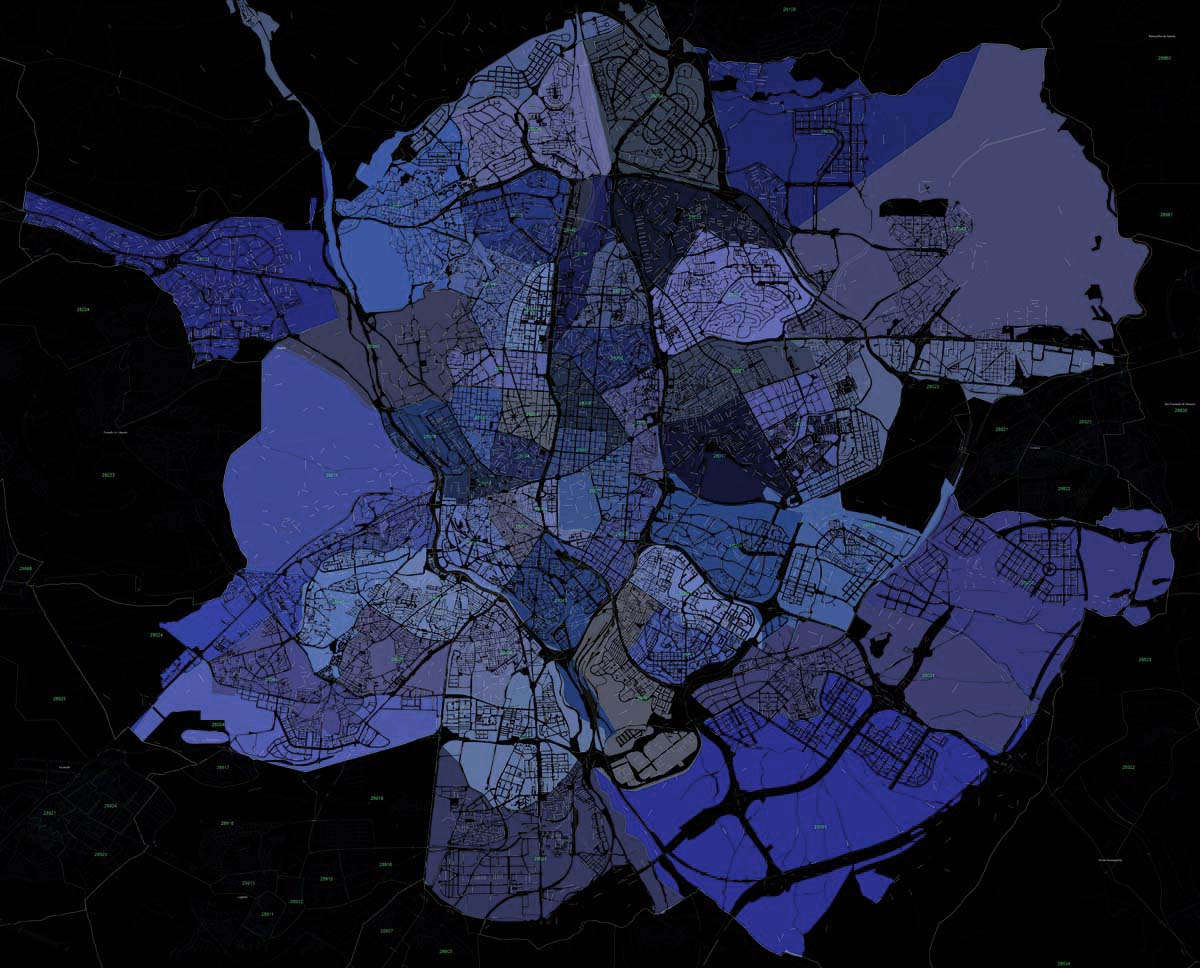
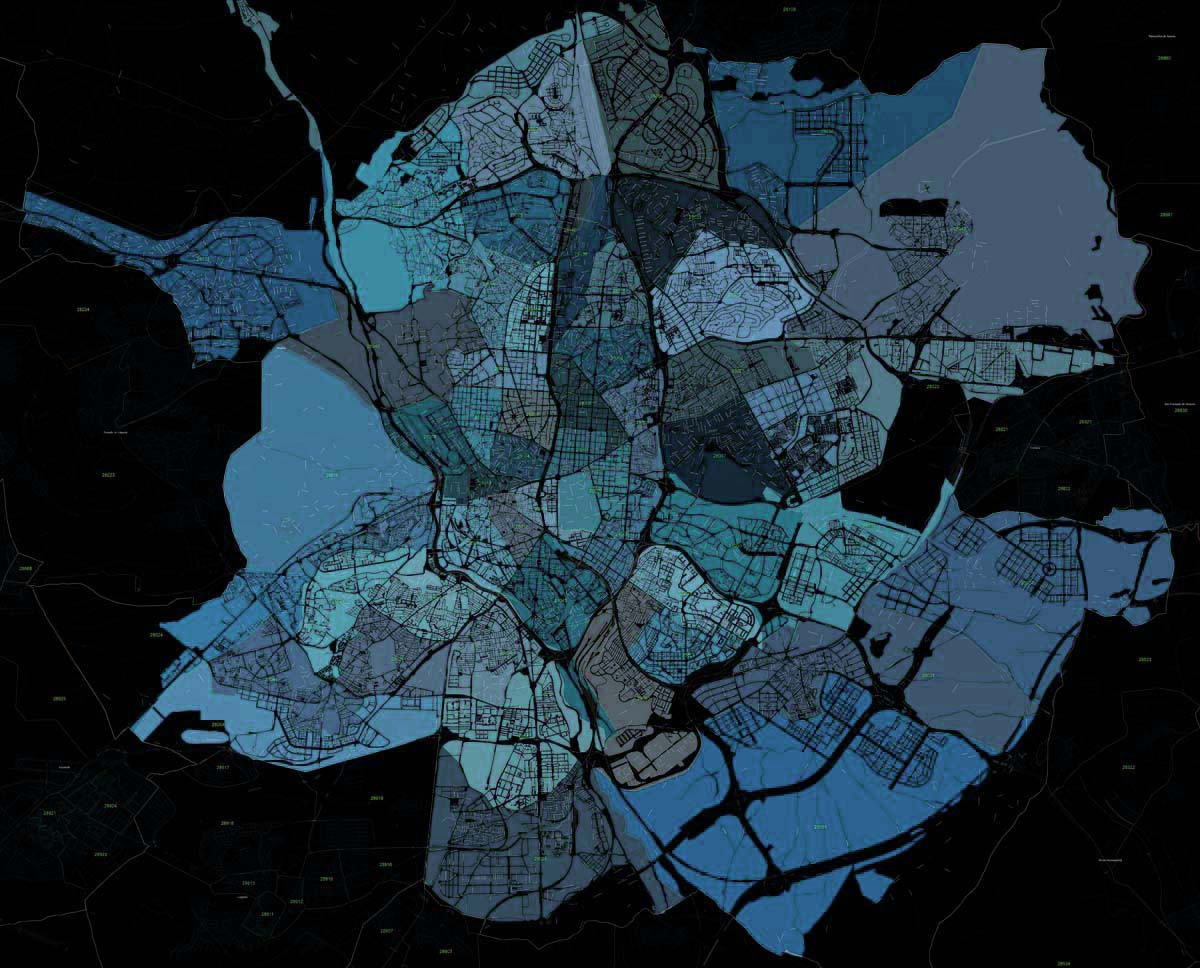
working on ui

Changed region(s): [[0.0, 0.0, 0.9867, 0.9917]]

diff --git a/client/src/components/GeneralStats.js b/client/src/components/GeneralStats.js
@@ -9,20 +9,20 @@ export default function GeneralStats(props) {
     console.log(props)
     if(props.element){
         return (
-            <div className="selection">
-                <p className="minititle">ZIPCODE</p>
+            <div className="selection full">
+                <p className="sectitle">ZIPCODE</p>
                 <h1>{props.element.Zone}</h1>
                 <hr></hr>
-                <p className="minititle">MERCHANTS</p>
+                <p className="sectitle">MERCHANTS</p>
                 <p className="content">{props.element.Merchants}</p>
-                <p className="minititle"># CARDS</p>
+                <p className="sectitle"># CARDS</p>
                 <p className="content">{props.element.Cards}</p>
-                <p className="minititle"># TRANSACTIONS</p>
+                <p className="sectitle"># TRANSACTIONS</p>
                 <p className="content">{props.element.Txs}</p>
-                <p className="minititle">PEAK / VALLEY DAYS</p>
+                <p className="sectitle">PEAK / VALLEY DAYS</p>
                 <p className="content">{props.element.Peakday} / {props.element.Valleyday}</p>
-                <p className="minititle">PEAK / VALLEY HOURS</p>
-                <p className="content">{props.element.Peakhour} / {props.element.Valleyhour}</p>
+                <p className="sectitle">PEAK / VALLEY HOURS</p>
+                <p className="content">{props.element.Peakhour}.00h / {props.element.Valleyhour}.00h</p>
                 <p></p>
             </div>
             )

diff --git a/client/src/components/HomeButtons.css b/client/src/components/HomeButtons.css
@@ -1,0 +1,58 @@
+.butcontainer{
+    position: absolute;
+    bottom: 80px;
+    left: 30vw;
+    border-top: 1px solid grey;
+}
+
+.btn6{
+    font-size: 12px;
+    padding: 15px 100px;
+    margin:10px 4px;
+    color: #fff;
+    font-family: sans-serif;
+    text-transform: uppercase;
+    text-align: center;
+    position: relative;
+    text-decoration: none;
+    display:inline-block;
+    border:1px solid transparent; 
+    -webkit-transition: all 0.4s cubic-bezier(.5, .24, 0, 1);
+    transition: all 0.4s cubic-bezier(.5, .24, 0, 1);
+ }
+
+ .btn6.active{
+    color: rgb(245, 46, 245);
+    border-bottom: 1px solid rgb(245, 46, 245);
+    font-weight: bolder;
+ }
+    
+
+ .btn6::before {
+    content: '';
+    position: absolute;
+    bottom: 0%;
+    left: 0px;
+    width: 100%;
+    height: 2px;
+    background: rgb(245, 46, 245);
+    display: block;
+    -webkit-transform-origin: right top;
+    -ms-transform-origin: right top;
+    transform-origin: right top;
+    -webkit-transform: scale(0, 1);
+    -ms-transform: scale(0, 1);
+    transform: scale(0, 1);
+    -webkit-transition: transform 0.4s cubic-bezier(1, 0, 0, 1);
+    transition: transform 0.4s cubic-bezier(1, 0, 0, 1)
+  }
+  
+  .btn6:hover::before {
+    -webkit-transform-origin: left top;
+    -ms-transform-origin: left top;
+    transform-origin: left top;
+    -webkit-transform: scale(1, 1);
+    -ms-transform: scale(1, 1);
+    transform: scale(1, 1)
+  }
+  

diff --git a/client/src/components/HomeScene.js b/client/src/components/HomeScene.js
@@ -3,6 +3,8 @@ import React, { Component } from 'react'
 import GeneralStats from './GeneralStats';
 
 import Service from '../services/generalservice'
+import SectionInfo from './SectionInfo';
+import HomeButtons from './HomeButtons';
 
 
 
@@ -97,7 +99,7 @@ class HomeScene extends Component{
 
     this.material = []
 
-    this.material2 = new window.THREE.MeshPhongMaterial({color:'#0000ff' ,transparent:true})
+    this.material2 = new window.THREE.MeshPhongMaterial({color:'#ff00ff' ,transparent:true})
     this.material2.opacity = 0.7
 
     this.group2 = new window.THREE.Group()
@@ -243,12 +245,14 @@ class HomeScene extends Component{
         }
         return(
         <div>
+          <SectionInfo title="Overview" description="Mouse over the 3D model showing the different city areas and display the main data for each one"/>
           <GeneralStats element={elementtoprint}/>
           <div className="canvas"
               style={{ margin: '0 auto' ,width: '100vw', height: '100vh' }}
               ref={(mount) => { this.mount = mount }}
               onMouseMove={this.onDocumentMouseMove}
           />
+          <HomeButtons/>
         </div>
         )
     }

diff --git a/client/src/components/HomeButtons.js b/client/src/components/HomeButtons.js
@@ -1,0 +1,28 @@
+import React, { Component } from 'react'
+import './HomeButtons.css'
+
+export default class HomeButtons extends Component {
+
+    constructor(){
+        super()
+        this.active = undefined
+    }
+
+    toggle = (e)=>{
+        e.preventDefault()
+        document.querySelectorAll('.btn6').forEach(e=>{
+            e.classList="btn6"
+        })
+        e.currentTarget.classList.toggle('active')
+    }
+
+    render() {
+        return (
+        <div className="butcontainer">
+                <a href="#" onClick={e=>this.toggle(e)} class="btn6">MERCHANTS</a>
+                <a href="#" onClick={e=>this.toggle(e)} class="btn6">TRANSACTIONS</a>
+                <a href="#" onClick={e=>this.toggle(e)} class="btn6">CARDS</a>
+        </div>
+        )
+    }
+}

diff --git a/client/src/components/Display.css b/client/src/components/Display.css
@@ -1,20 +1,38 @@
 .selection{
-  position: fixed;
+  width: 250px;
+  position: absolute;
   right: 50px;
-  top: 50px;
+  top: 80px;
   color:white;
   text-align: right;
+  transform: translateX(300px);
+  transition: transform .5s;
 }
 
-.minititle{
-  font-size: 13px;
-  font-weight: 200;
+.full{
+  transform: translateX(0)
+}
+
+.selection>h1{
+  margin-top: 10px;
+  font-size: 40px;
+  margin-bottom: 15px;
+}
+
+.sectitle{
+  font-size: 16px;
+  font-weight: lighter;
+  margin-bottom: 5px;
+  color: rgba(255,255,255,0.7)
 }  
 
 .content{
   font-size: 18px;
+  font-weight: bolder;
+  /* color: #ff00ff; */
 }
 
 hr{
-  border: 1px solid grey;
+  border-top: none;
+  border-bottom: 1px solid grey;
 }

diff --git a/client/src/components/SectionInfo.css b/client/src/components/SectionInfo.css
@@ -1,0 +1,15 @@
+.info{
+    border-top: 1px solid grey;
+    width: 300px;
+    position: absolute;
+    top: 180px;
+    left: 200px;
+    color: white;
+    text-align: left;
+}
+
+.info h1{
+    font-family: Libre-Baskersville;
+    font-weight: lighter;
+    font-size: 45px;
+}

diff --git a/client/src/components/SectionInfo.js b/client/src/components/SectionInfo.js
@@ -1,0 +1,11 @@
+import React from 'react'
+import './SectionInfo.css'
+
+export default function SectionInfo({title,description}) {
+  return (
+    <div className="info">
+      <h1>{title}</h1>
+      <p>{description}</p>
+    </div>
+  )
+}

diff --git a/client/src/App.css b/client/src/App.css
@@ -11,6 +11,7 @@
   width: 100%;
   overflow: hidden;
   font-family: 'Noto Sans', sans-serif;
+  position: relative;
 }
 
 
